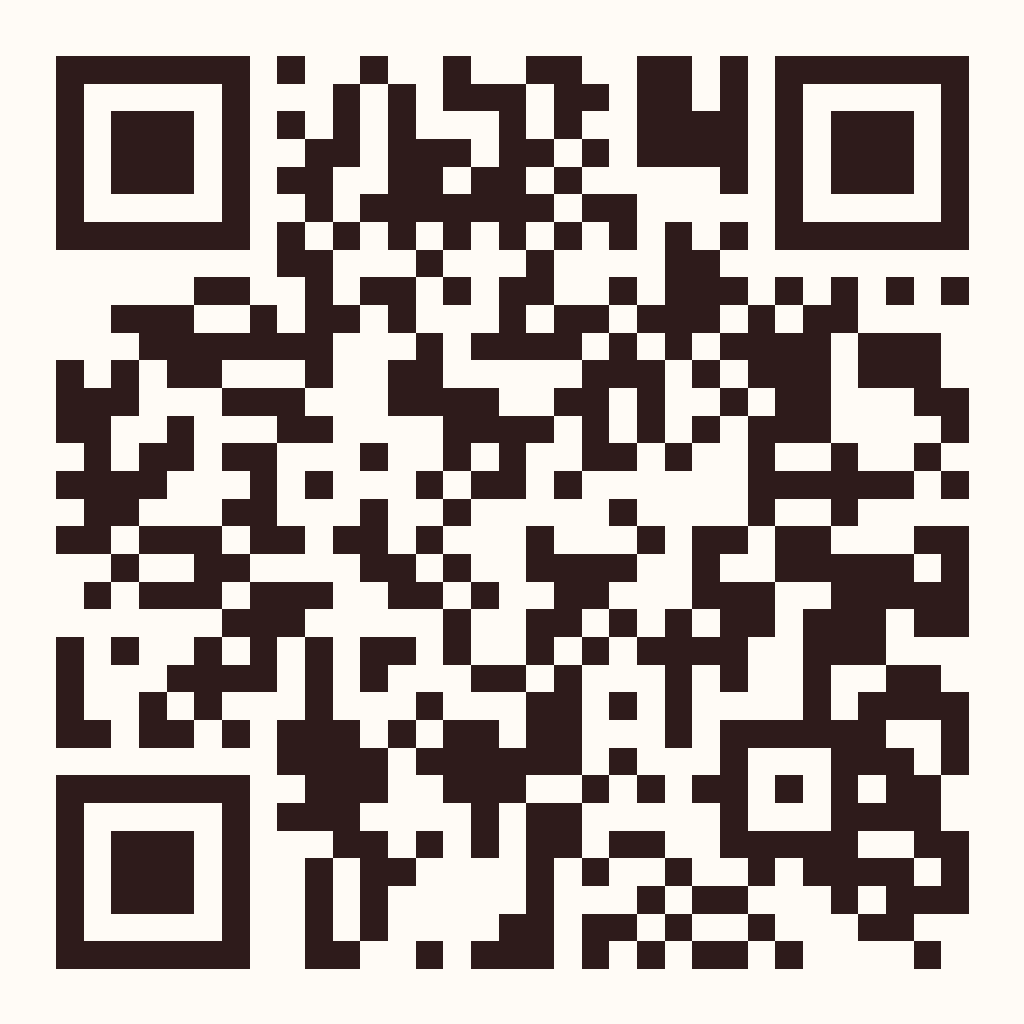
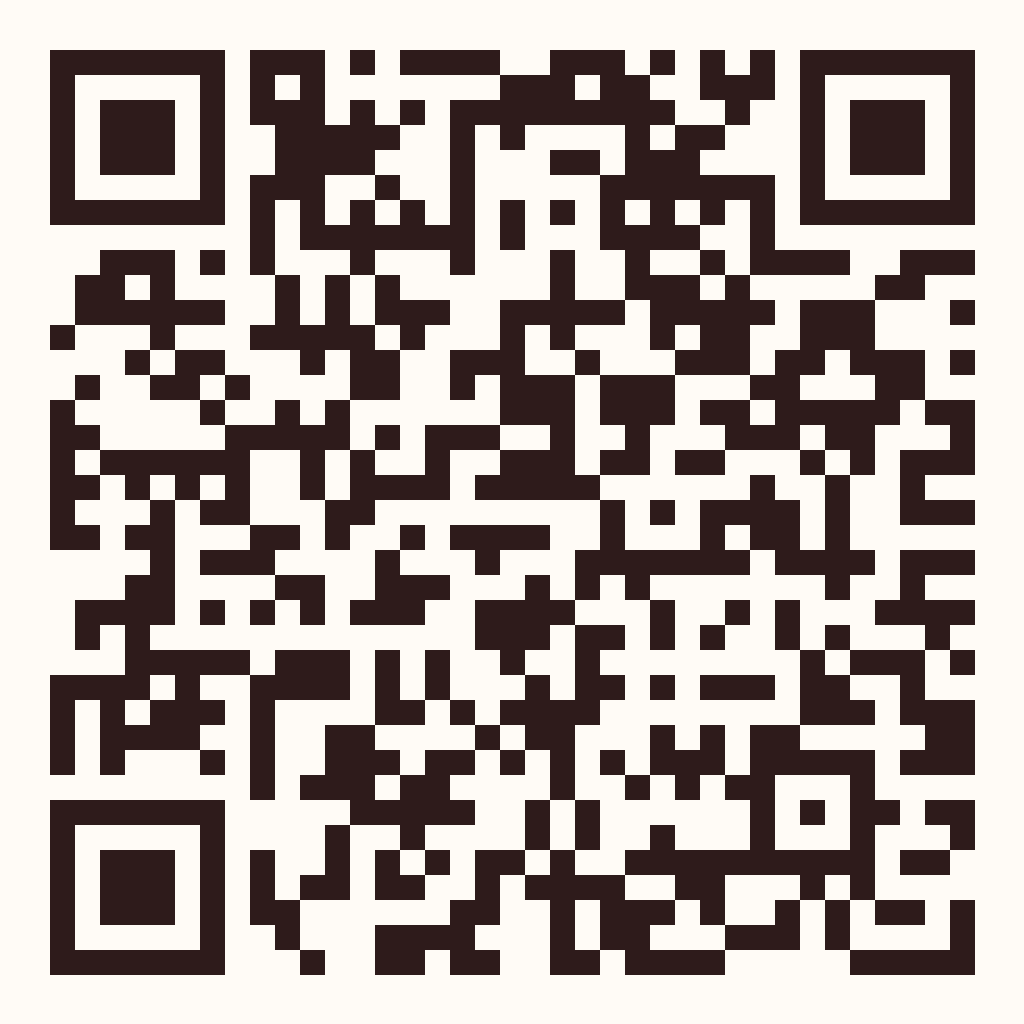
Personalizar la ruta con la marca: zegel pasa a eldelicioso
Actualiza canonical, Open Graph, Twitter, JSON-LD y sitemap a
https://aldoveg.github.io/eldelicioso/, regenera el QR (verificado) y
sube la versión de caché.

diff --git a/index.html b/index.html
@@ -1,5 +1,5 @@
 <!DOCTYPE html>
-<html lang="es" data-version="202609212159">
+<html lang="es" data-version="202609231907">
 <head>
   <meta charset="UTF-8">
   <meta name="viewport" content="width=device-width, initial-scale=1">
@@ -11,10 +11,10 @@
   <link rel="apple-touch-icon" href="img/favicon-180.png">
   <meta property="og:type" content="website">
   <meta property="og:locale" content="es_PE">
-  <link rel="canonical" href="https://aldoveg.github.io/zegel/">
-  <meta property="og:url" content="https://aldoveg.github.io/zegel/">
+  <link rel="canonical" href="https://aldoveg.github.io/eldelicioso/">
+  <meta property="og:url" content="https://aldoveg.github.io/eldelicioso/">
   <meta property="og:site_name" content="El Delicioso">
-  <meta property="og:image" content="https://aldoveg.github.io/zegel/img/og-portada.jpg">
+  <meta property="og:image" content="https://aldoveg.github.io/eldelicioso/img/og-portada.jpg">
   <meta property="og:image:type" content="image/jpeg">
   <meta property="og:image:width" content="1200">
   <meta property="og:image:height" content="630">
@@ -22,7 +22,7 @@
   <meta name="twitter:card" content="summary_large_image">
   <meta name="twitter:title" content="Bocaditos para eventos en Lima | El Delicioso">
   <meta name="twitter:description" content="El placer de pecar. Bocaditos caseros dulces y salados para eventos en Lima.">
-  <meta name="twitter:image" content="https://aldoveg.github.io/zegel/img/og-portada.jpg">
+  <meta name="twitter:image" content="https://aldoveg.github.io/eldelicioso/img/og-portada.jpg">
   <meta property="og:title" content="Bocaditos para eventos en Lima | El Delicioso">
   <meta property="og:description" content="El placer de pecar. Bocaditos caseros dulces y salados para eventos en Lima. Pide 25, 50 o 100 por WhatsApp con 2 días de anticipación.">
   <link rel="preconnect" href="https://fonts.googleapis.com">
@@ -35,14 +35,14 @@
        index.js, hay que actualizar ESTOS TRES LUGARES A LA VEZ con la misma fecha y hora (AAAAMMDDHHmm):
        1) el ?v= de index.css y de index.js aquí abajo, 2) data-version en la etiqueta <html> de arriba,
        3) el valor "v" de version.json en la raíz del repositorio. -->
-  <link rel="stylesheet" href="index.css?v=202609212159">
+  <link rel="stylesheet" href="index.css?v=202609231907">
   <script type="application/ld+json">
   {
     "@context": "https://schema.org",
     "@type": "Bakery",
-    "url": "https://aldoveg.github.io/zegel/",
-    "image": "https://aldoveg.github.io/zegel/img/og-portada.jpg",
-    "logo": "https://aldoveg.github.io/zegel/img/marca-eldelicioso.png",
+    "url": "https://aldoveg.github.io/eldelicioso/",
+    "image": "https://aldoveg.github.io/eldelicioso/img/og-portada.jpg",
+    "logo": "https://aldoveg.github.io/eldelicioso/img/marca-eldelicioso.png",
     "name": "El Delicioso",
     "description": "El placer de pecar. Bocaditos de casa dulces y salados para todo tipo de evento. por WhatsApp con 2 días de anticipación.",
     "slogan": "El placer de pecar.",
@@ -55,7 +55,7 @@
     "priceRange": "S/ 28 - S/ 255"
   }
   </script>
-  <script src="index.js?v=202609212159" defer></script>
+  <script src="index.js?v=202609231907" defer></script>
 </head>
 <body id="arriba">
   <svg width="0" height="0" style="position:absolute" aria-hidden="true" focusable="false">

diff --git a/avance.md b/avance.md
@@ -489,3 +489,4 @@ Notas: en la p. 6 del PDF el tercer producto decía "Mini tartaleta de maracuyá
 - 21/09/2026: **auditoría de accesibilidad real del flujo completo (programador-web).** Primera vez que se prueba con herramientas de accesibilidad (nunca se había hecho pese a varios rediseños). Se instaló Playwright + `@axe-core/playwright` en una carpeta temporal fuera del repositorio (con red disponible) y se sirvió el sitio con un servidor HTTP local mínimo (probar con `file://` genera errores de consola falsos por CORS al leer `index.css`, que no ocurren por HTTP ni en GitHub Pages). Se auditaron con axe-core (WCAG 2.1 A y AA) seis estados: portada al cargar, planificador tras enviar vacío (error de validación), planificador con resultado calculado, la lista de compras abierta tras agregar un producto, el catálogo con el filtro "Dulces" aplicado y la página completa tras todas las interacciones. **Encontrado y corregido:** el botón flotante de WhatsApp (`.whatsapp-flotante`) quedaba fuera de cualquier landmark (regla `region` de axe, impacto moderado); se envolvió en `<aside aria-label="Contacto directo por WhatsApp">` en `index.html` (línea ~1129), sin tocar su CSS ni su comportamiento. Tras la corrección, las seis auditorías quedan sin violaciones. **Revisión manual adicional** (con pruebas de teclado automatizadas en Playwright): el `radiogroup` del selector de grupo de la portada responde a flechas y cicla correctamente; abrir "Mi lista" con Enter mueve el foco al título del panel y Escape lo devuelve a "Mi lista", como está documentado; al agregar un producto desde una tarjeta con Enter, el foco se queda a propósito en el botón (ahora "Agregado", con `aria-label` actualizado) y el panel se abre solo visualmente en escritorio sin robar el foco al visitante, que es el comportamiento ya documentado en el grupo de "Nuevo orden y flujo de compra"; no se detectó ninguna trampa de foco real (con 150 tabulaciones seguidas el foco recorre el conjunto de elementos enfocables de la página y vuelve a empezar, sin quedarse fijo en ningún componente). Se confirmó que las imágenes decorativas de "Para tu ocasión" llevan `alt=""` y `aria-hidden="true"` y no son focalizables. Se confirmaron los `aria-live`/`role="status"`/`role="alert"` ya existentes en el contador de la lista, el resultado del planificador, el estado de la lista y los errores de fecha y del formulario. `node --check index.js` sin errores y sin ids duplicados en `index.html` tras el cambio. **Pendiente, ya señalado antes en este archivo y no corregido ahora por ser una decisión de diseño:** la galería (carrusel) no tiene un botón explícito para pausar el avance automático (relevante para el criterio WCAG 2.2.2, aunque ya se pausa solo con el cursor encima, con foco dentro, al tocar la pantalla, con la pestaña oculta y por completo con `prefers-reduced-motion`); añadir un botón de pausa visible requeriría un ícono y un lugar en el diseño del carrusel, así que se reporta para que el diseñador lo valide en vez de decidirlo aquí. Sigue sin probarse con un lector de pantalla real (NVDA/JAWS/VoiceOver) ni en Safari/iOS. **Cambios solo en la carpeta local; falta subirlos a `zegel`.**
 - 21/09/2026: **caché del navegador corregida.** El usuario reportó que tras publicar una actualización, "se queda pegado con la data anterior" aunque se actualice la página. Causa: `index.css` e `index.js` se enlazaban en `index.html` sin ningún parámetro de versión, así que el navegador (y la caché de GitHub Pages) seguían sirviendo el archivo guardado en caché en vez de pedir el nuevo. Se agregó `?v=AAAAMMDDHHmm` a ambos enlaces (por ejemplo `index.css?v=202609212159`), con un comentario en el HTML que recuerda cambiar ese número cada vez que se publique una actualización de esos dos archivos. Con esto, una recarga normal del navegador siempre trae la versión nueva; ya no hace falta borrar caché a mano.
 - 21/09/2026 (noche): **el problema de caché seguía porque GitHub Pages cachea todo, no solo `index.css`/`index.js`.** Se comprobó con las cabeceras reales del sitio publicado: `Cache-Control: max-age=600` en TODOS los archivos, incluido `index.html`. GitHub Pages no permite configurar cabeceras propias, así que una pestaña que ya cargó la página no vuelve a preguntarle al servidor durante 10 minutos aunque se pulse "actualizar" (recarga normal); el `?v=` de la corrección anterior nunca llega a aplicarse hasta que ese cacheo vence o se hace una recarga forzada (Ctrl+Shift+R). **Solución: la propia página se revisa y se recarga sola.** Se creó `version.json` en la raíz (`{"v": "202609212159"}`) y la etiqueta `<html>` lleva `data-version="202609212159"`. `index.js` pide `version.json` sin caché (con un parámetro que cambia en cada pedido, así nunca lo sirve cacheado ni el navegador ni GitHub Pages) al volver a la pestaña (`visibilitychange`) y cada 5 minutos mientras quede abierta (`INTERVALO_VERSION_MS`); si el valor no coincide con `data-version`, aparece un aviso fijo abajo a la izquierda ("Hay una versión nueva de la página." + botón "Actualizar ahora") que al pulsarlo recarga con una URL nunca antes cacheada (`?_=` con la hora exacta), trayendo la versión nueva de una sola vez. **Mantenimiento:** de ahora en más, cada vez que se publique un cambio en `index.html`, `index.css` o `index.js` hay que actualizar la misma fecha y hora (`AAAAMMDDHHmm`) en **tres lugares a la vez**: los `?v=` de `index.css` e `index.js`, el `data-version` de `<html>`, y el `"v"` de `version.json` (los tres están comentados en el HTML para no olvidarlo). Sin conexión o si `version.json` falla, el aviso simplemente no aparece; no rompe la página. `node --check index.js` sin errores; sin ids duplicados.
+- 23/09/2026: **ruta personalizada con la marca.** El repositorio se renombró de `zegel` a `eldelicioso` (lo hizo el usuario desde Configuración de GitHub; yo no tengo credenciales para renombrar). La dirección pública pasa a **https://aldoveg.github.io/eldelicioso/**. Se actualizaron las 8 referencias a `/zegel/` (`canonical`, `og:url`, `og:image`, `twitter:image`, `url`, `image` y `logo` del JSON-LD en `index.html`, y `sitemap.xml`), el remoto de git (`AldoVeg/eldelicioso`), la versión de caché en sus tres lugares, y se regeneró `img/qr-eldelicioso.png` apuntando a la dirección nueva (verificado que decodifica exactamente a ella). GitHub redirige la dirección vieja por un tiempo, pero el QR y los enlaces impresos deben ser los nuevos. Limitación: "aldoveg" (usuario de GitHub) solo se puede quitar de la dirección con un dominio propio; no se cambió. Para no volver a cambiar la ruta, el nombre `eldelicioso` no debe renombrarse otra vez.
